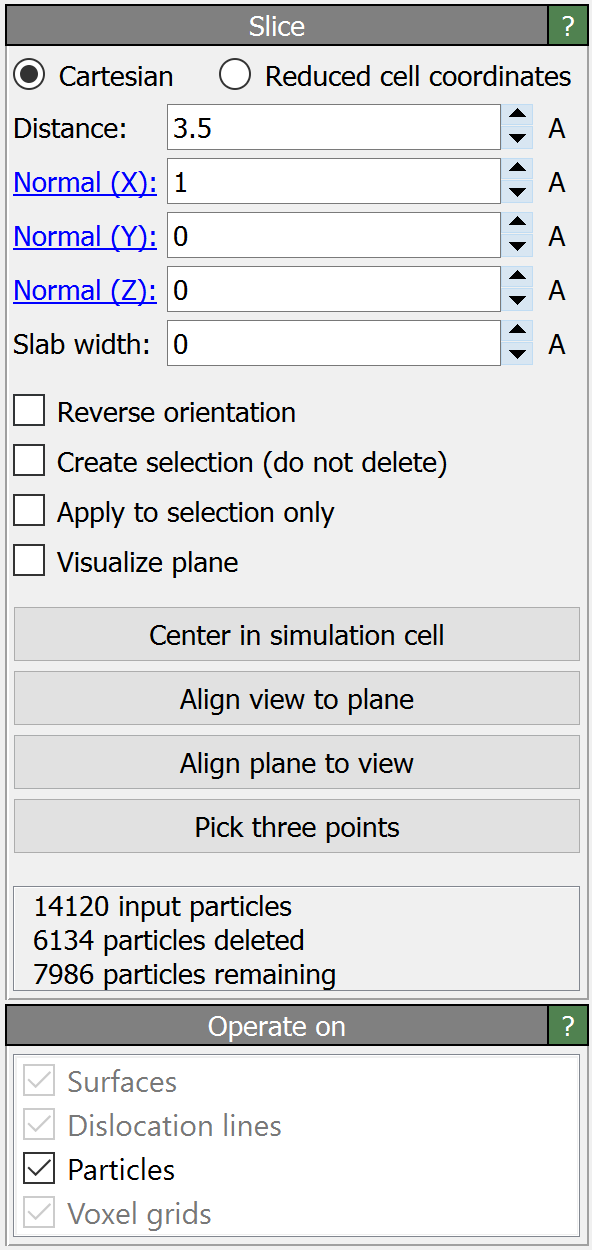
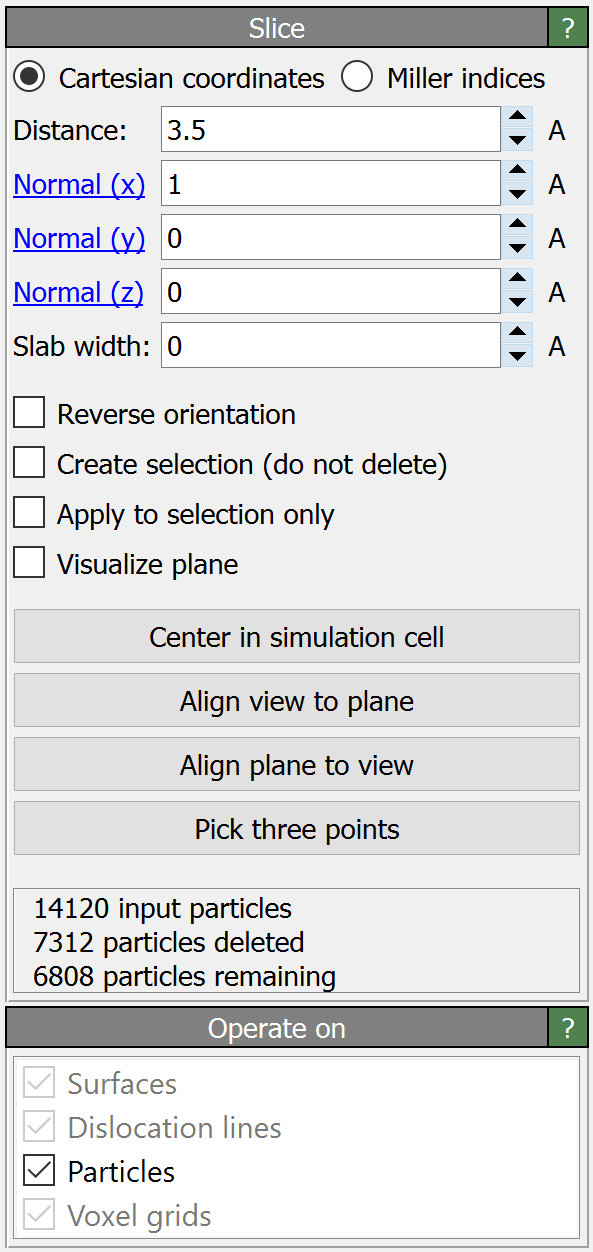
Implemented Miller index mode in SliceModifier

diff --git a/src/ovito/stdmod/gui/SliceModifierEditor.cpp b/src/ovito/stdmod/gui/SliceModifierEditor.cpp
@@ -64,13 +64,13 @@ void SliceModifierEditor::createUI(const RolloutInsertionParameters& rolloutPara
 	QHBoxLayout* sublayout = new QHBoxLayout();
 	sublayout->setContentsMargins(0,0,0,0);
 
-	BooleanRadioButtonParameterUI* reducedCoordinatesPUI = new BooleanRadioButtonParameterUI(this, PROPERTY_FIELD(SliceModifier::reducedCoordinates));
-	reducedCoordinatesPUI->buttonFalse()->setText(tr("Cartesian"));
-	reducedCoordinatesPUI->buttonTrue()->setText(tr("Reduced cell coordinates"));
-	sublayout->addWidget(reducedCoordinatesPUI->buttonFalse(), 1);
-	sublayout->addWidget(reducedCoordinatesPUI->buttonTrue(), 1);
+	_reducedCoordinatesPUI = new BooleanRadioButtonParameterUI(this, PROPERTY_FIELD(SliceModifier::reducedCoordinates));
+	_reducedCoordinatesPUI->buttonFalse()->setText(tr("Cartesian coordinates"));
+	_reducedCoordinatesPUI->buttonTrue()->setText(tr("Miller indices"));
+	sublayout->addWidget(_reducedCoordinatesPUI->buttonFalse(), 1);
+	sublayout->addWidget(_reducedCoordinatesPUI->buttonTrue(), 1);
 	layout->addLayout(sublayout);
-	connect(reducedCoordinatesPUI, &BooleanRadioButtonParameterUI::valueEntered, this, &SliceModifierEditor::onCoordinateTypeChanged);
+	connect(_reducedCoordinatesPUI, &BooleanRadioButtonParameterUI::valueEntered, this, &SliceModifierEditor::onCoordinateTypeChanged);
 
 	QGridLayout* gridlayout = new QGridLayout();
 	gridlayout->setContentsMargins(0,0,0,0);
@@ -82,17 +82,16 @@ void SliceModifierEditor::createUI(const RolloutInsertionParameters& rolloutPara
 	gridlayout->addLayout(distancePUI->createFieldLayout(), 2, 1);
 
 	// Normal parameter.
-	static const QString axesNames[3] = { QStringLiteral("X"), QStringLiteral("Y"), QStringLiteral("Z") };
 	for(int i = 0; i < 3; i++) {
-		Vector3ParameterUI* normalPUI = new Vector3ParameterUI(this, PROPERTY_FIELD(SliceModifier::normalController), i);
-		normalPUI->label()->setTextFormat(Qt::RichText);
-		normalPUI->label()->setTextInteractionFlags(Qt::LinksAccessibleByMouse);
-		normalPUI->label()->setText(QStringLiteral("<a href=\"%1\">%2</a>").arg(i).arg(normalPUI->label()->text()));
-		normalPUI->label()->setToolTip(tr("Click here to align plane normal with %1 axis").arg(axesNames[i]));
-		connect(normalPUI->label(), &QLabel::linkActivated, this, &SliceModifierEditor::onXYZNormal);
-		gridlayout->addWidget(normalPUI->label(), i + 3, 0);
-		gridlayout->addLayout(normalPUI->createFieldLayout(), i + 3, 1);
+		_normalPUI[i] = new Vector3ParameterUI(this, PROPERTY_FIELD(SliceModifier::normalController), i);
+		_normalPUI[i]->label()->setTextFormat(Qt::RichText);
+		_normalPUI[i]->label()->setTextInteractionFlags(Qt::LinksAccessibleByMouse);
+		connect(_normalPUI[i]->label(), &QLabel::linkActivated, this, &SliceModifierEditor::onAlignNormalWidthAxis);
+		gridlayout->addWidget(_normalPUI[i]->label(), i + 3, 0);
+		gridlayout->addLayout(_normalPUI[i]->createFieldLayout(), i + 3, 1);
 	}
+	connect(_reducedCoordinatesPUI->buttonFalse(), &QAbstractButton::toggled, this, &SliceModifierEditor::updateCoordinateLabels);
+	updateCoordinateLabels();
 
 	// Slice width parameter.
 	FloatParameterUI* widthPUI = new FloatParameterUI(this, PROPERTY_FIELD(SliceModifier::widthController));
@@ -156,6 +155,23 @@ void SliceModifierEditor::createUI(const RolloutInsertionParameters& rolloutPara
 }
 
 /******************************************************************************
+* Is called when the selected type of plane normal coordinates have changed.
+******************************************************************************/
+void SliceModifierEditor::updateCoordinateLabels()
+{
+	static const QString cartesianAxesNames[3] = { QStringLiteral("x"), QStringLiteral("y"), QStringLiteral("z") };
+	static const QString millerAxesNames[3] = { QStringLiteral("h"), QStringLiteral("k"), QStringLiteral("l") };
+
+	for(int i = 0; i < 3; i++) {
+		const QString& axisName = 
+			_reducedCoordinatesPUI->buttonFalse()->isChecked() ? 
+			cartesianAxesNames[i] : millerAxesNames[i];
+		_normalPUI[i]->label()->setText(QStringLiteral("<a href=\"%1\">Normal (%2)</a>").arg(i).arg(axisName));
+		_normalPUI[i]->label()->setToolTip(tr("Click here to align plane normal with %1 axis").arg(axisName));
+	}
+}
+
+/******************************************************************************
 * Is called when the user switches between Cartesian and reduced cell coordinates.
 ******************************************************************************/
 void SliceModifierEditor::onCoordinateTypeChanged()
@@ -176,19 +192,25 @@ void SliceModifierEditor::onCoordinateTypeChanged()
 		plane.dist = mod->distanceController()->getFloatValue(mod->dataset()->animationSettings()->time(), validityInterval);
 
 	// Automatically convert current plane equation to/from reduced coordinates.
-	if(mod->reducedCoordinates())
+	if(mod->reducedCoordinates()) {
+		plane.normal.normalizeSafely();
 		plane = cell->reciprocalCellMatrix() * plane;
-	else
+	}
+	else {
+		FloatType lengthSq = plane.normal.squaredLength();
+		if(lengthSq != 0)
+			plane.normal /= lengthSq;
 		plane = cell->cellMatrix() * plane;
+	}
 
 	mod->setNormal(plane.normal);
 	mod->setDistance(plane.dist);
 }
 
 /******************************************************************************
-* Aligns the normal of the slicing plane with the X, Y, or Z axis.
+* Aligns the normal of the slicing plane with one of the coordinate axes.
 ******************************************************************************/
-void SliceModifierEditor::onXYZNormal(const QString& link)
+void SliceModifierEditor::onAlignNormalWidthAxis(const QString& link)
 {
 	SliceModifier* mod = static_object_cast<SliceModifier>(editObject());
 	if(!mod) return;
@@ -314,12 +336,17 @@ void SliceModifierEditor::onCenterOfBox()
 	const PipelineFlowState& input = getModifierInput();
 	if(const SimulationCellObject* cell = input.getObject<SimulationCellObject>()) {
 
-		Point3 centerPoint;
-		if(!mod->reducedCoordinates())
-			centerPoint = cell->cellMatrix() * Point3(0.5, 0.5, 0.5);
-		else
-			centerPoint = Point3(0.5, 0.5, 0.5);
-		FloatType centerDistance = mod->normal().safelyNormalized().dot(centerPoint - Point3::Origin());
+		FloatType centerDistance;
+		if(!mod->reducedCoordinates()) {
+			Point3 centerPoint = cell->cellMatrix() * Point3(0.5, 0.5, 0.5);
+			centerDistance = mod->normal().safelyNormalized().dot(centerPoint - Point3::Origin());
+		}
+		else {
+			if(!mod->normal().isZero())
+				centerDistance = mod->normal().dot(Vector3(0.5, 0.5, 0.5));
+			else
+				centerDistance = mod->distance();
+		}
 
 		undoableTransaction(tr("Set plane position"), [mod, centerDistance]() {
 			mod->setDistance(centerDistance);
@@ -446,12 +473,14 @@ void PickPlanePointsInputMode::alignPlane(SliceModifier* mod)
 				localPlane = cell->inverseMatrix() * localPlane;
 			}
 		}
+		else {
+			localPlane.normalizePlane();
+		}
 
 		// Flip new plane orientation if necessary to align it with old orientation.
 		if(localPlane.normal.dot(mod->normal()) < 0)
 			localPlane = -localPlane;
 
-		localPlane.normalizePlane();
 		UndoableTransaction::handleExceptions(mod->dataset()->undoStack(), tr("Align plane to points"), [mod, &localPlane]() {
 			mod->setNormal(localPlane.normal);
 			mod->setDistance(localPlane.dist);

diff --git a/src/ovito/stdmod/modifiers/SliceModifier.cpp b/src/ovito/stdmod/modifiers/SliceModifier.cpp
@@ -121,8 +121,6 @@ std::tuple<Plane3, FloatType> SliceModifier::slicingPlane(TimePoint time, TimeIn
 
 	if(plane.normal == Vector3::Zero())
 		plane.normal = Vector3(0,0,1);
-	else
-		plane.normal.normalize();
 
 	if(distanceController())
 		plane.dist = distanceController()->getFloatValue(time, validityInterval);
@@ -132,11 +130,15 @@ std::tuple<Plane3, FloatType> SliceModifier::slicingPlane(TimePoint time, TimeIn
 
 	if(reducedCoordinates()) {
 		if(const SimulationCellObject* cell = state.getObject<SimulationCellObject>()) {
+			plane.normal /= plane.normal.squaredLength();
 			plane = cell->cellMatrix() * plane;
 		}
 		else {
 			throwException(tr("Slicing plane was specified in reduced cell coordinates but there is no simulation cell."));
 		}
+	}
+	else {
+		plane.normal.normalize();
 	}
 
 	FloatType slabWidth = 0;
@@ -312,7 +314,7 @@ void SliceModifier::evaluateSynchronous(TimePoint time, ModifierApplication* mod
 			auto planeEdgeIntersection = [&](const Vector3& b, const Vector3& d) {
 				Ray3 edge(Point3::Origin() + b, d);
 				FloatType t = plane.intersectionT(edge, FLOATTYPE_EPSILON);
-				if(t >= 0 && t <= 1)
+				if(t >= -FLOATTYPE_EPSILON && t <= 1 + FLOATTYPE_EPSILON)
 					vertices.push_back(edge.point(t));
 			};
 			planeEdgeIntersection(cellMatrix.translation(), cellMatrix.column(0));
@@ -328,7 +330,8 @@ void SliceModifier::evaluateSynchronous(TimePoint time, ModifierApplication* mod
 			planeEdgeIntersection(cellMatrix.translation() + cellMatrix.column(1) + cellMatrix.column(2), cellMatrix.column(0));
 			planeEdgeIntersection(cellMatrix.translation() + cellMatrix.column(2) + cellMatrix.column(0), cellMatrix.column(1));
 			if(vertices.size() < 3) return;
-			vertices.erase(std::remove(vertices.begin() + 1, vertices.end(), vertices.front()), vertices.end());
+			vertices.erase(std::remove_if(vertices.begin() + 1, vertices.end(), 
+				[p = vertices.front()](const Point3& p2) { return p2.equals(p); }), vertices.end());
 			if(vertices.size() < 3) return;
 			std::sort(vertices.begin() + 1, vertices.end(), [&](const Point3& a, const Point3& b) {
 				return (a - vertices.front()).cross(b - vertices.front()).dot(plane.normal) < 0;

diff --git a/src/ovito/gui/desktop/properties/BooleanRadioButtonParameterUI.cpp b/src/ovito/gui/desktop/properties/BooleanRadioButtonParameterUI.cpp
@@ -142,16 +142,25 @@ void BooleanRadioButtonParameterUI::updatePropertyValue()
 		undoableTransaction(tr("Change parameter"), [this]() {
 			int id = buttonGroup()->checkedId();
 			if(id != -1) {
+				QVariant oldval;
 				if(propertyName()) {
-					if(!editObject()->setProperty(propertyName(), (bool)id)) {
-						OVITO_ASSERT_MSG(false, "BooleanRadioButtonParameterUI::updatePropertyValue()", qPrintable(QString("The value of property %1 of object class %2 could not be set.").arg(QString(propertyName()), editObject()->metaObject()->className())));
-					}
+					oldval = editObject()->property(propertyName());
 				}
 				else if(propertyField()) {
-					editor()->changePropertyFieldValue(*propertyField(), (bool)id);
+					oldval = editObject()->getPropertyFieldValue(*propertyField());
+				}
+				if((bool)id != oldval.toBool()) {
+					if(propertyName()) {
+						if(!editObject()->setProperty(propertyName(), (bool)id)) {
+							OVITO_ASSERT_MSG(false, "BooleanRadioButtonParameterUI::updatePropertyValue()", qPrintable(QString("The value of property %1 of object class %2 could not be set.").arg(QString(propertyName()), editObject()->metaObject()->className())));
+						}
+					}
+					else if(propertyField()) {
+						editor()->changePropertyFieldValue(*propertyField(), (bool)id);
+					}
+					Q_EMIT valueEntered();
 				}
 			}
-			Q_EMIT valueEntered();
 		});
 	}
 }

diff --git a/src/ovito/stdmod/gui/SliceModifierEditor.h b/src/ovito/stdmod/gui/SliceModifierEditor.h
@@ -59,8 +59,8 @@ protected Q_SLOTS:
 	/// Aligns the current viewing direction to the slicing plane.
 	void onAlignViewToPlane();
 
-	/// Aligns the normal of the slicing plane with the X, Y, or Z axis.
-	void onXYZNormal(const QString& link);
+	/// Aligns the normal of the slicing plane with one of the coordinate axes.
+	void onAlignNormalWidthAxis(const QString& link);
 
 	/// Moves the plane to the center of the simulation box.
 	void onCenterOfBox();
@@ -68,10 +68,15 @@ protected Q_SLOTS:
 	/// Is called when the user switches between Cartesian and reduced cell coordinates.
 	void onCoordinateTypeChanged();
 
+	/// Is called when the selected type of plane normal coordinates have changed.
+	void updateCoordinateLabels();
+
 private:
 
 	PickPlanePointsInputMode* _pickPlanePointsInputMode;
 	ViewportModeAction* _pickPlanePointsInputModeAction;
+	BooleanRadioButtonParameterUI* _reducedCoordinatesPUI;
+	Vector3ParameterUI* _normalPUI[3];
 };
 
 /******************************************************************************

diff --git a/src/ovito/core/utilities/linalg/Plane.h b/src/ovito/core/utilities/linalg/Plane.h
@@ -228,10 +228,17 @@ public:
 template<typename T>
 inline Plane_3<T> operator*(const AffineTransformationT<T>& tm, const Plane_3<T>& plane) {
 	Plane_3<T> p2;
-	Matrix_3<T> normalTM = tm.linear().inverse().transposed();
-	p2.normal = (normalTM * plane.normal).safelyNormalized();
-	Point_3<T> base = tm * (typename Point_3<T>::Origin() + plane.normal * plane.dist);
-	p2.dist = p2.normal.dot(base - typename Point_3<T>::Origin());
+	Matrix_3<T> inv_tm; 
+	if(tm.linear().inverse(inv_tm)) {
+		Matrix_3<T> normalTM = inv_tm.transposed();
+		p2.normal = (normalTM * plane.normal).safelyNormalized();
+		Point_3<T> base = tm * (typename Point_3<T>::Origin() + plane.normal * plane.dist);
+		p2.dist = p2.normal.dot(base - typename Point_3<T>::Origin());
+	}
+	else {
+		p2.normal.setZero();
+		p2.dist = 0;
+	}
 	return p2;
 }
 

diff --git a/doc/manual/reference/pipelines/modifiers/slice.rst b/doc/manual/reference/pipelines/modifiers/slice.rst
@@ -29,26 +29,29 @@ Alternatively, the modifier can cut out a slab of a given thickness from the str
 Parameters
 """"""""""
 
-Cartesian / reduced cell coordinates
-  Selects whether the `Distance` and `Normal` parameters are specified in 
-  Cartesian space (i.e. global simulation coordinate system) or in reduced simulation cell space. The latter allows you to specify
-  the cutting plane's orientation in terms of the reciprocal cell vectors (Miller indices) and relative to the cell's origin. 
+Cartesian coordinates / Miller indices
+  Selects whether the `Distance` and `Normal` parameters are specified in terms of
+  the global Cartesian coordinate system or in `reciprocal cell space <https://en.wikipedia.org/wiki/Miller_index>`__. 
 
 Distance
-  The (signed) distance of the cutting plane from the coordinate origin
-  measured parallel to the plane normal. If `Cartesian` mode is active,
-  the origin is the point (0,0,0) of the gloabl simulation coordinate system.
-  In `Reduced cell coordinates`, the origin is the corner of the simulation cell. 
+  The (signed) distance of the cutting plane from the origin measured parallel to the plane normal. 
+  In `Cartesian` mode, the origin is the point (0,0,0) of the global simulation coordinate system
+  and the distance is specified in simulation units of length. In `Miller index` mode, the
+  plane's distance is measured from the origin of the simulation cell and specified in terms of the interplanar spacing :math:`d_{\mathrm{hkl}}`,
+  which depends on the entered Miller indices. 
 
-Normal (X,Y,Z)
+Normal
   The three components of the plane's normal vector, which defines the orientation of the plane. 
   This vector does not have to be a unit vector. Note that you can click on the blue labels
-  next to each input field to reset the vector to point along the corresponding coordinate axis.
+  next to each input field to reset the vector to point along the corresponding axis.
+  In `Cartesian` mode, the normal vector is specified in Cartesion coordinates of the global simulation coordinate system.
+  In `Miller index` mode, the normal vector must be specified `in terms of the reciprocal lattice vectors <https://en.wikipedia.org/wiki/Miller_index>`__ (inverse 
+  simulation cell matrix).
 
 Slab width
   Specifies the width of the slab to cut out from the input structure.
   If this value is zero (the default), everything on one side of the
-  cutting plane is deleted. If `slab width` is set to a positive value, 
+  cutting plane is deleted. If `slab width` is set to a positive value (measured in simulation units of length), 
   a slice of the given thickness is cut out.
 
 Reverse orientation

diff --git a/doc/manual/reference/pipelines/modifiers/voronoi_analysis.rst b/doc/manual/reference/pipelines/modifiers/voronoi_analysis.rst
@@ -107,15 +107,7 @@ Edge length threshold
 Generate neighbor bonds
   If this option is enabled, the modifier generates :ref:`bonds <scene_objects.bonds>` between neighboring particles that share a Voronoi face.
   A bond is generated for every Voronoi face whose area is larger than the face area threshold and which has at least three edges
-  longer than the specified edge length threshold.
-
-  .. caution:: 
-  
-    Bonds in periodic simulation cells are computed using the minimum image convention,
-    which requires that the cell is at least twice as large in each periodic direction as the
-    longest neighbor bond. In cases where the cell is shorter, the generated bonds may be incorrect!
-    You can work around this limitation by applying a :ref:`particles.modifiers.show_periodic_images` 
-    modifier to small periodic simulation cells.
+  longer than the edge length threshold.
 
 Use particle radii
   Lets the modifier compute the poly-disperse Voronoi tessellation, which takes into account the radii of particles.
